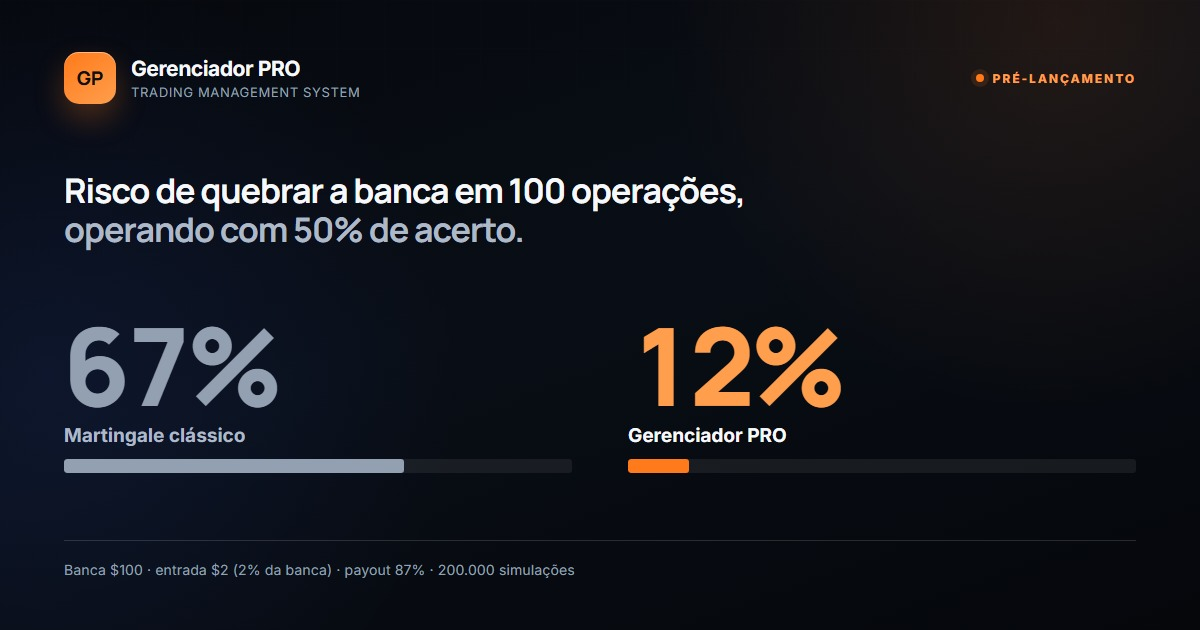
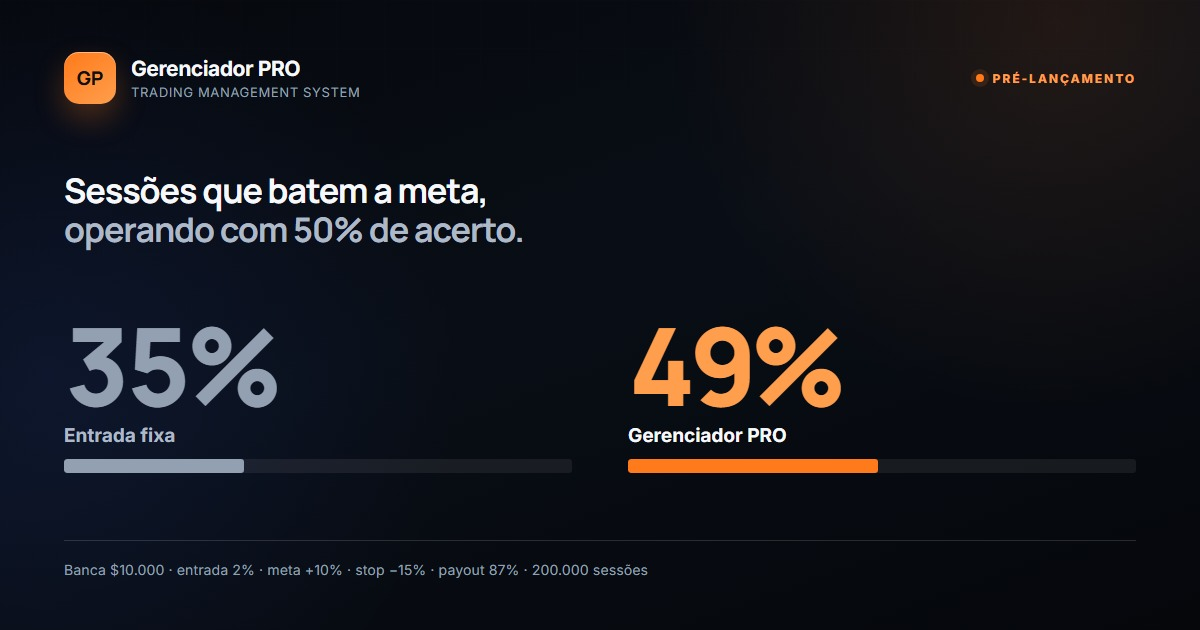
fix: numeros da simulacao refeitos com o metodo real do produto
A secao anterior dizia "martingale quebra a banca em 67% das vezes,
Gerenciador em 12%". Esses numeros vieram de uma simulacao que ignorava
Meta e Stop Loss — dois parametros que o produto tem e usa. Com o freio
de 15% no lugar, a banca praticamente nunca chega a zero: ela bate no
stop antes. Um cliente que testasse veria numeros que nao existem.

Refeito com a mecanica exata, conferida contra a tabela do painel:
- deficit acumulado, aporte = fracao do deficit / payout
- divisao 35/65 entre 1o e 2o aporte
- o 2o aporte so acontece se o 1o vencer
- LOSS no 1o pula o 2o e avanca para a mao seguinte
- teto de 30 maos
Os valores calculados batem ao centavo com o plano exibido no app
(1,73 / 3,21 na 1a mao; 2,43 / 4,51 na 2a).

Resultado com banca $10.000, entrada 2%, meta +10%, stop -15%,
payout 87%, 200.000 sessoes por sistema, acerto de 50%:
- entrada fixa bate a meta em 35,4% das sessoes
- Gerenciador PRO bate em 49,3%
- martingale bate em 63%, mas quando falha termina em $7.000, o dobro
  do stop que o usuario definiu; o Gerenciador para em $7.957

O argumento contra o martingale deixou de ser "ele quebra mais" (falso
com stop loss) e passou a ser "ele ignora o limite que voce definiu"
(verdadeiro e demonstravel).

Mantida a ressalva de que nenhum gerenciamento inventa lucro: a 50% de
acerto todas as medias terminam abaixo da banca inicial. Acrescentada a
informacao de que a 60% a entrada fixa passa na frente — o produto
[…]

diff --git a/index.html b/index.html
@@ -262,30 +262,30 @@
       <div class="sim-body">
         <p data-i18n="simulacao.03">People learning chart analysis are right about half the time. That is normal, and it is nothing to be ashamed of — it is the price of learning to read a chart. What breaks a beginner's bankroll is not the hit rate. It is what they do after the fourth loss in a row.</p>
         <p data-i18n="simulacao.04">At an 87% payout, every $1 lost costs $1.15 to win back. Four losses demand five wins, and five wins in a row show up only 10.9% of the time. That distance is what makes the hand rise on its own and double the entry.</p>
-        <p data-i18n="simulacao.05">Doubling after a loss is the most repeated and most expensive advice in this market. We simulated 200,000 sessions under the conditions described below: <strong>classic martingale broke the bankroll in 67% of them.</strong> Two out of every three.</p>
-        <p data-i18n="simulacao.06">Gerenciador PRO splits the recovery instead of doubling it. Across those same 200,000 sessions, <strong>the bankroll broke in 12%</strong> — and the median result ended at $101.76, against $87.00 for flat-entry trading.</p>
-        <p data-i18n="simulacao.07">That is at a 50% hit rate, in the dark. <strong>Reach 60% and the break rate falls to 1.4%.</strong></p>
-        <p data-i18n="simulacao.08">No money management invents profit, and anyone promising you that is lying. Below a 53.48% hit rate, time works against you — over 500 operations at 50%, the break rate climbs to 47%. Gerenciador PRO does not change that math. <strong>It buys you room to learn before the bankroll runs out.</strong></p>
+        <p data-i18n="simulacao.05">So we measured it. We simulated 200,000 sessions using Gerenciador PRO's own settings: a $10,000 bankroll, a 2% entry, a 10% target, a 15% stop loss and an 87% payout. <strong>At a 50% hit rate, a flat entry reaches the target in 35.4% of sessions. Recovery Cycles reach it in 49.3%.</strong></p>
+        <p data-i18n="simulacao.06">And classic martingale? It reaches the target more often still — 63%. But when it fails it ends at <strong>$7,000</strong>: 30% down, twice the 15% stop loss the trader had set. Gerenciador PRO stops at $7,957. The difference is not how often you win. It is the size of the damage when you lose.</p>
+        <p data-i18n="simulacao.07">Doubling after a loss walks straight through the limit you set for yourself. That is the real danger, and it is invisible until the session it isn't.</p>
+        <p data-i18n="simulacao.08">No money management invents profit, and anyone promising you that is lying. At a 50% hit rate every average here ends below the starting bankroll. And once you reach 60%, a flat entry overtakes everything else. <strong>Gerenciador PRO was built for the beginning — that is where it changes the outcome most.</strong></p>
       </div>
 
       <div class="sim-duo">
         <article class="sim-stat bad">
-          <b>67%</b>
-          <span data-i18n="simulacao.09">Bankroll broken with classic martingale</span>
+          <b>35%</b>
+          <span data-i18n="simulacao.09">Sessions reaching the target with a flat entry</span>
           <span class="sim-track" aria-hidden="true"><i></i></span>
         </article>
         <article class="sim-stat good">
-          <b>12%</b>
-          <span data-i18n="simulacao.10">Bankroll broken with Gerenciador PRO</span>
+          <b>49%</b>
+          <span data-i18n="simulacao.10">Sessions reaching the target with Gerenciador PRO</span>
           <span class="sim-track" aria-hidden="true"><i></i></span>
         </article>
       </div>
 
       <div class="sim-conditions">
         <strong data-i18n="simulacao.11">The conditions these numbers were calculated under</strong>
-        <p data-i18n="simulacao.12">Starting bankroll of $100. Base entry of $2, equal to 2% of the bankroll. Payout of 87%. Hit rate of 50%, the equivalent of a coin. 100 operations per session. 200,000 sessions simulated for each system.</p>
-        <p data-i18n="simulacao.13">The figures are proportional: a $1,000 bankroll with a $20 entry produces exactly the same result. What matters is the ratio between entry and bankroll, not the currency or the size.</p>
-        <p data-i18n="simulacao.14">The payout changes the outcome. At 80%, the Gerenciador PRO break rate rises to 17.4%; at 95%, it drops to 7.0%. Classic martingale stays above 64% at any payout between 70% and 95%.</p>
+        <p data-i18n="simulacao.12">Bankroll of $10,000. Entry of 2%, target of +10%, stop loss of −15%, payout of 87%, recovery split 35/65 across the two entries. Hit rate of 50%, the equivalent of a coin. 200,000 sessions simulated for each system, following the exact rules of the app: the second entry of a hand is only played after the first one wins.</p>
+        <p data-i18n="simulacao.13">The figures are proportional: a $1,000 bankroll with a $20 entry produces exactly the same percentages. What matters is the ratio between entry and bankroll, not the currency or the size.</p>
+        <p data-i18n="simulacao.14">Results change with the settings. A wider stop loss lets recovery run longer and raises both the chance of reaching the target and the size of the worst sessions.</p>
       </div>
 
       <div class="sim-cta">

diff --git a/og-image-fonte.html b/og-image-fonte.html
@@ -85,8 +85,8 @@
   .stat.bad .who { color: var(--muted); }
   .track { display: block; height: 14px; border-radius: 3px; background: rgba(255,255,255,.07); overflow: hidden; }
   .fill { display: block; height: 100%; border-radius: 3px; }
-  .stat.bad .fill { width: 67%; background: var(--muted-2); }
-  .stat.good .fill { width: 12%; background: var(--orange); }
+  .stat.bad .fill { width: 35.4%; background: var(--muted-2); }
+  .stat.good .fill { width: 49.3%; background: var(--orange); }
 
   footer {
     padding-top: 20px;
@@ -112,25 +112,25 @@
   </header>
 
   <p class="lead layer">
-    Risco de quebrar a banca em 100 operações,<br>
+    Sessões que batem a meta,<br>
     <em>operando com 50% de acerto.</em>
   </p>
 
   <div class="duo layer">
     <div class="stat bad">
-      <span class="num">67%</span>
-      <span class="who">Martingale clássico</span>
+      <span class="num">35%</span>
+      <span class="who">Entrada fixa</span>
       <span class="track"><span class="fill"></span></span>
     </div>
     <div class="stat good">
-      <span class="num">12%</span>
+      <span class="num">49%</span>
       <span class="who">Gerenciador PRO</span>
       <span class="track"><span class="fill"></span></span>
     </div>
   </div>
 
   <footer class="layer">
-    Banca $100 · entrada $2 (2% da banca) · payout 87% · 200.000 simulações
+    Banca $10.000 · entrada 2% · meta +10% · stop −15% · payout 87% · 200.000 sessões
   </footer>
 </body>
 </html>

diff --git a/styles.css b/styles.css
@@ -1889,8 +1889,8 @@ input:focus-visible, select:focus-visible, textarea:focus-visible { outline: non
   overflow: hidden;
 }
 .sim-track i { display: block; height: 100%; border-radius: 3px; }
-.sim-stat.bad .sim-track i { width: 67%; background: var(--muted-2); }
-.sim-stat.good .sim-track i { width: 12%; background: var(--orange); }
+.sim-stat.bad .sim-track i { width: 35.4%; background: var(--muted-2); }
+.sim-stat.good .sim-track i { width: 49.3%; background: var(--orange); }
 
 .sim-conditions {
   margin-top: 18px;
